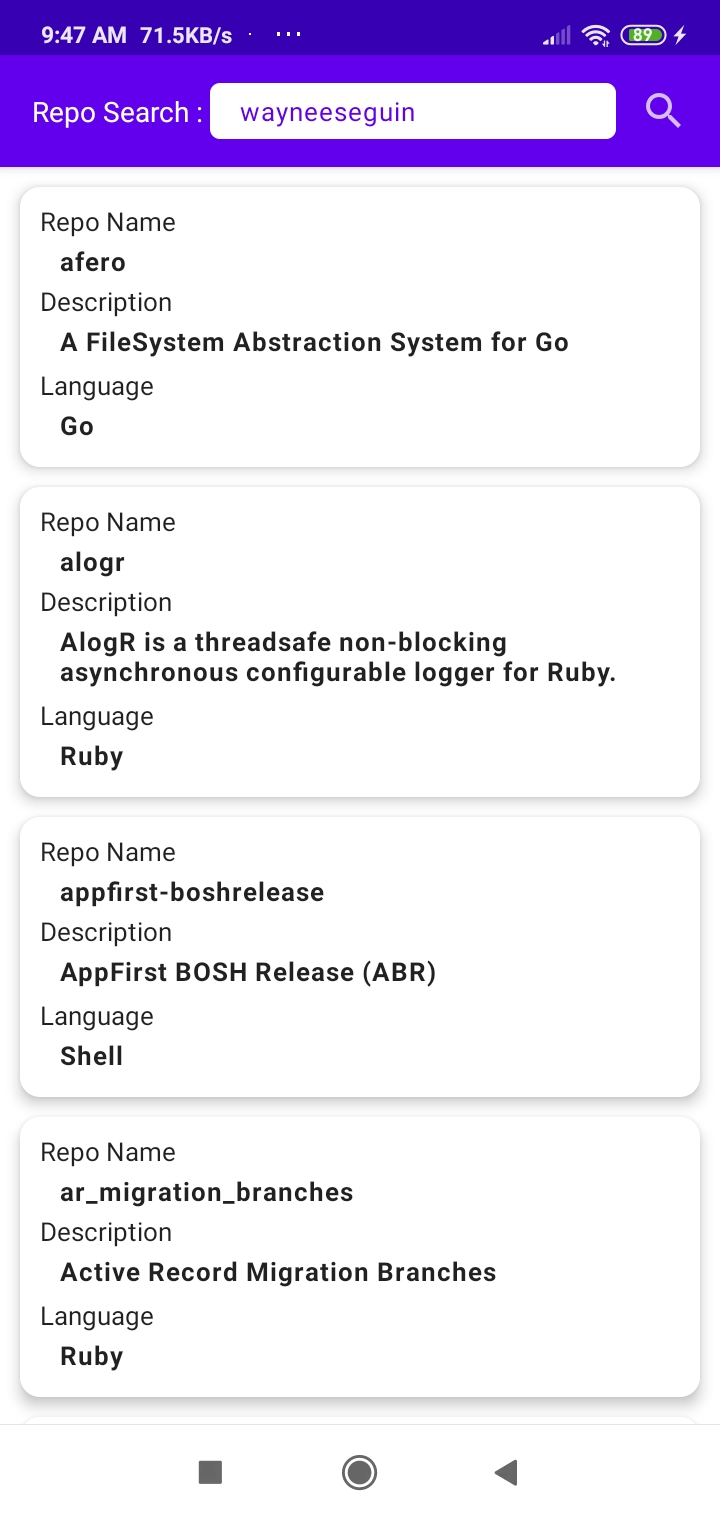
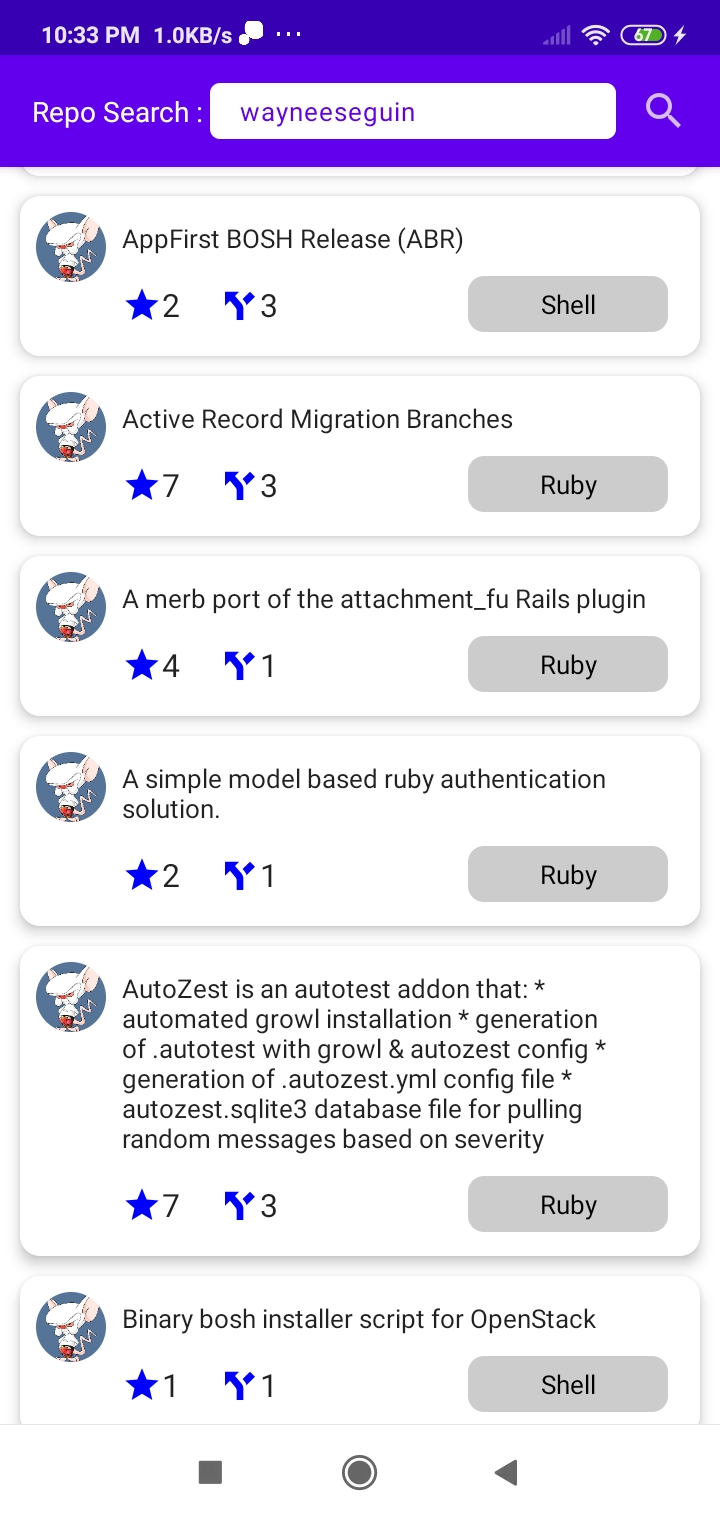
change repo list ui

diff --git a/app/src/main/java/kso/repo/search/ui/home/HomePage.kt b/app/src/main/java/kso/repo/search/ui/home/HomePage.kt
@@ -1,21 +1,28 @@
 package kso.repo.search.ui.home
 
 import android.util.Log
+import androidx.compose.foundation.Image
 import androidx.compose.foundation.background
 import androidx.compose.foundation.clickable
 import androidx.compose.foundation.layout.*
 import androidx.compose.foundation.lazy.LazyColumn
 import androidx.compose.foundation.lazy.items
+import androidx.compose.foundation.shape.CircleShape
 import androidx.compose.foundation.shape.RoundedCornerShape
 import androidx.compose.material.*
 import androidx.compose.material.MaterialTheme.typography
 import androidx.compose.material.icons.Icons
 import androidx.compose.material.icons.filled.Search
+import androidx.compose.material.icons.filled.Star
 import androidx.compose.runtime.*
 import androidx.compose.ui.Alignment
 import androidx.compose.ui.Modifier
+import androidx.compose.ui.draw.clip
 import androidx.compose.ui.graphics.Color
+import androidx.compose.ui.graphics.ColorFilter
+import androidx.compose.ui.graphics.painter.Painter
 import androidx.compose.ui.platform.LocalLifecycleOwner
+import androidx.compose.ui.res.painterResource
 import androidx.compose.ui.res.stringResource
 import androidx.compose.ui.text.font.FontWeight
 import androidx.compose.ui.text.style.TextAlign
@@ -25,6 +32,7 @@ import androidx.lifecycle.Lifecycle
 import androidx.lifecycle.LifecycleEventObserver
 import androidx.lifecycle.flowWithLifecycle
 import androidx.navigation.NavHostController
+import coil.compose.SubcomposeAsyncImage
 import kso.repo.search.R
 import kso.repo.search.app.NavPath
 import kso.repo.search.app.collectAsStateLifecycleAware
@@ -34,6 +42,7 @@ import kso.repo.search.model.Repo
 import kso.repo.search.model.Resource
 import kso.repo.search.ui.common.ErrorScreen
 import kso.repo.search.ui.common.LoadingScreen
+import kso.repo.search.ui.common.SpannableText
 import kso.repo.search.viewModel.HomePageViewModel
 
 const val TAG: String = "HomePage"
@@ -273,28 +282,119 @@ fun RepoRow(repo: Repo, onClick: () -> Unit) {
         elevation = 5.dp,
         backgroundColor = MaterialTheme.colors.surface
     ) {
-        Column(modifier = Modifier
-            .fillMaxWidth()
-            .padding(vertical = 8.dp, horizontal = 10.dp)
-            .clickable { onClick() }) {
+        Row(
+            //horizontalArrangement = Arrangement.SpaceBetween,
+            verticalAlignment = Alignment.Top,
+            modifier = Modifier
+                .fillMaxWidth()
+                .padding(8.dp)
+                .clickable { onClick() }
+        ) {
 
-            Text("Repo Name",  fontSize = 13.sp, style = typography.h3)
-            Spacer(modifier = Modifier.height(2.dp))
-            Text(repo.name, fontSize = 13.sp, fontWeight = FontWeight.Bold, style = typography.h4, modifier = Modifier.padding(horizontal = 10.dp))
-            Spacer(modifier = Modifier.height(2.dp))
-            Text("Description",  fontSize = 13.sp, style = typography.h3)
-            Spacer(modifier = Modifier.height(2.dp))
-            if(repo.description!= null){
-                Text(repo.description, fontSize = 13.sp, fontWeight = FontWeight.Bold, style = typography.h4, modifier = Modifier.padding(horizontal = 10.dp))
-            }else Text("-", fontSize = 13.sp, fontWeight = FontWeight.Bold, style = typography.h4,  modifier = Modifier.padding(horizontal = 10.dp))
-            Spacer(modifier = Modifier.height(4.dp))
-            Text("Language",  fontSize = 13.sp, style = typography.h3)
-            Spacer(modifier = Modifier.height(2.dp))
-            if(repo.language!= null){
-                Text(repo.language, fontSize = 13.sp, fontWeight = FontWeight.Bold, style = typography.h4, modifier = Modifier.padding(horizontal = 10.dp))
-            }else Text("-", fontSize = 13.sp, fontWeight = FontWeight.Bold, style = typography.h4,  modifier = Modifier.padding(horizontal = 10.dp))
-            Spacer(modifier = Modifier.height(4.dp))
+            SubcomposeAsyncImage(
+                model = repo.owner?.avatarUrl,
+                loading = {
+                    CircularProgressIndicator()
+                },
+                contentDescription = stringResource(R.string.icon_img_text),
+                modifier = Modifier
+                    .clip(CircleShape)
+                    .width(35.dp)
+                    .height(35.dp)
+            )
+            Column(
+                verticalArrangement = Arrangement.spacedBy(10.dp),
+                horizontalAlignment = Alignment.Start,
+                modifier = Modifier
+                    .fillMaxWidth()
+                    .padding(horizontal = 8.dp, vertical = 4.dp),
+            ) {
+                repo.description?.let { Text(it, fontSize = 13.sp) }
+                Row(
+                    horizontalArrangement = Arrangement.SpaceBetween,
+                    verticalAlignment = Alignment.CenterVertically,
+                    modifier = Modifier
+                        .fillMaxWidth()
+
+                ) {
+                    Row(
+                        horizontalArrangement = Arrangement.spacedBy(20.dp),
+                        verticalAlignment = Alignment.CenterVertically,
+                        modifier = Modifier
+                            .wrapContentWidth()
+
+                    ) {
+                        Row(
+                            horizontalArrangement = Arrangement.SpaceBetween,
+                            verticalAlignment = Alignment.CenterVertically
+                        ) {
+                            Icon(
+                                Icons.Filled.Star,
+                                modifier = Modifier
+                                    //.clip(CircleShape)
+                                    .width(20.dp)
+                                    .height(20.dp),
+                                tint = Color.Blue,
+                                contentDescription = stringResource(id = R.string.icon_star_text)
+                            )
+                            Text("${repo.stargazersCount}")
+                        }
+
+                        Row(
+                            horizontalArrangement = Arrangement.SpaceBetween,
+                            verticalAlignment = Alignment.CenterVertically
+                        ) {
+                            ForkIcon()
+                            Text("${repo.forksCount}")
+                        }
+
+                    }
+                    Row(
+                        horizontalArrangement = Arrangement.SpaceBetween,
+                        verticalAlignment = Alignment.CenterVertically
+                    ) {
+                        Box(
+                            Modifier
+                                .clip(RoundedCornerShape(8.dp))
+                                .background(Color.LightGray)
+                        ) {
+                            repo.language?.let {
+                                Text(
+                                    it,
+
+                                    modifier = Modifier
+                                        .padding(horizontal = 10.dp, vertical = 5.dp)
+                                        .width(80.dp)
+                                        .wrapContentHeight(),
+                                    fontSize = 13.sp,
+                                    color = Color.Black,
+                                    textAlign = TextAlign.Center
+                                )
+                            }
+                        }
+
+                    }
+                }
+
+            }
+
         }
     }
 
 }
+
+@Composable
+fun ForkIcon() {
+    val image: Painter = painterResource(id = R.drawable.directions_fork)
+    Image(
+        painter = image,
+        colorFilter = ColorFilter.tint(color = Color.Blue),
+        contentDescription = stringResource(id = R.string.icon_fork_text),
+        modifier = Modifier
+            //.clip(CircleShape)
+            .width(20.dp)
+            .height(20.dp),
+
+    )
+}
+

diff --git a/app/src/main/java/kso/repo/search/model/Repo.kt b/app/src/main/java/kso/repo/search/model/Repo.kt
@@ -35,7 +35,7 @@ data class Repo(
     val watchers: Int = 0,
 
     @SerializedName("language")
-    val language: String? = null,
+    val language: String? = "",
 
     @SerializedName("forks_count")
     val forksCount: Int = 0,
@@ -50,7 +50,10 @@ data class Repo(
     val openIssuesCount: Int = 0,
 
     @SerializedName("default_branch")
-    val defaultBranch: String=""
+    val defaultBranch: String="",
+
+    @SerializedName("stargazers_count")
+    val stargazersCount: Int = 0,
 
   /*
     @SerializedName("created_at")
@@ -68,8 +71,7 @@ data class Repo(
     @SerializedName("svn_url")
     val svnUrl: String,
     val homepage: String?,
-    @SerializedName("stargazers_count")
-    val stargazersCount: Int,
+
     @SerializedName("has_issues")
     val hasIssues: Boolean,
     @SerializedName("has_downloads")
